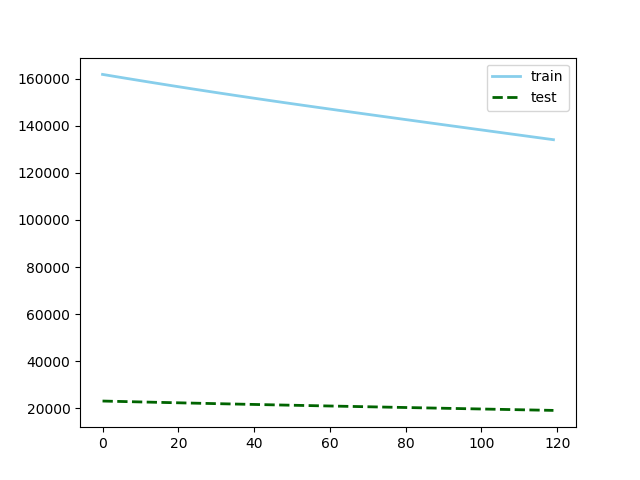
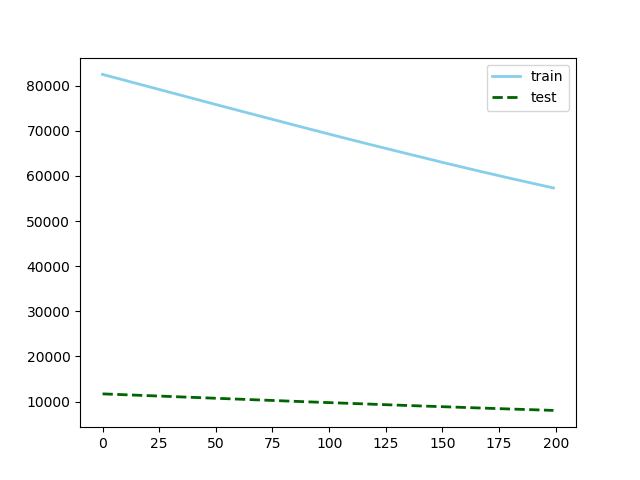
result with lr=0.4 and 4 step|

diff --git a/src/auto_model_training.py b/src/auto_model_training.py
@@ -27,9 +27,9 @@ if __name__ == "__main__":
     learning_param_map = [
         #{'rule': 'Euler', 'no_step': 6, 'learning_rate': 0.1},
         #{'rule': 'Implicit Euler', 'no_step': 6, 'learning_rate': 0.1},
-        {'rule': 'Trapezoid', 'no_step': 6, 'learning_rate': 0.4},
+        {'rule': 'Trapezoid', 'no_step': 4, 'learning_rate': 0.4},
         #{'rule': 'Simpsons', 'no_step': 6, 'learning_rate': 0.1},
-        {'rule': 'Gaussian_Q', 'no_step': 6, 'learning_rate': 0.4}
+#        {'rule': 'Gaussian_Q', 'no_step': 6, 'learning_rate': 0.4}
     ]
     analytical_definition = [{'rule': 'Analytical', 'no_step': 2, 'learning_rate': 0.001}]
     models_to_evaluate = [
@@ -43,7 +43,7 @@ if __name__ == "__main__":
 
     in_size = 5
     out_size = 1
-    no_epochs = 120
+    no_epochs = 200
     evaluation_df = pd.DataFrame(columns=['model_name', 'rule', 'no_step', 'learning_rate', 'loss_on_train', 'loss_on_test'])
 
     for model_definition in models_to_evaluate:
